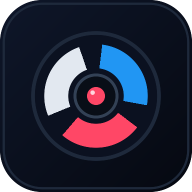
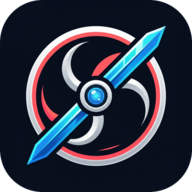
style: update branding and visual assets
- Rename project to "OBS Blade Server"
- Redesign app icons and gradients
- Add Apple touch icon and meta tags for improved PWA support

diff --git a/src/index.html b/src/index.html
@@ -3,13 +3,16 @@
   <head>
     <meta charset="UTF-8" />
     <meta name="viewport" content="width=device-width, initial-scale=1.0, maximum-scale=1.0, user-scalable=no, viewport-fit=cover" />
-    <title>OBS Blade Web</title>
+    <title>OBS Blade Server</title>
     <meta name="description" content="Mobile-first OBS Studio Web Remote with scene switching, source control, live thumbnails, filters, and media management." />
-    <meta property="og:title" content="OBS Blade Web" />
+    <meta property="og:title" content="OBS Blade Server" />
     <meta property="og:description" content="Mobile-first OBS Studio Web Remote with scene switching, source control, live thumbnails, filters, and media management." />
     <meta name="theme-color" content="#090e17" />
     <meta name="mobile-web-app-capable" content="yes" />
+    <meta name="apple-mobile-web-app-capable" content="yes" />
+    <meta name="apple-mobile-web-app-title" content="OBS Blade Server" />
     <link rel="manifest" href="./manifest.json" />
+    <link rel="apple-touch-icon" href="./pwa-192x192.png" />
     <link rel="icon" type="image/svg+xml" href="./icon.svg" />
     <link rel="icon" type="image/png" sizes="64x64" href="./favicon.png" />
     <link rel="stylesheet" href="./style.css" />

diff --git a/src/sw.js b/src/sw.js
@@ -3,7 +3,7 @@
 // Subfolder-safe for IIS subsite deployment & root Node hosting
 // ===========================================================================
 
-const CACHE_NAME = 'obs-blade-v3';
+const CACHE_NAME = 'obs-blade-v4';
 
 const STATIC_ASSETS = [
   './',
